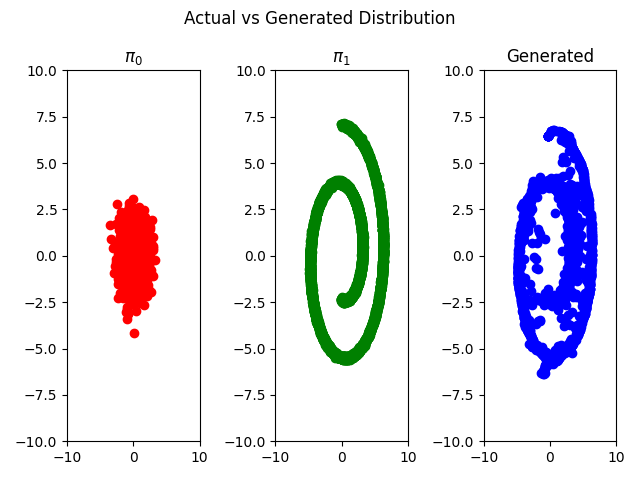
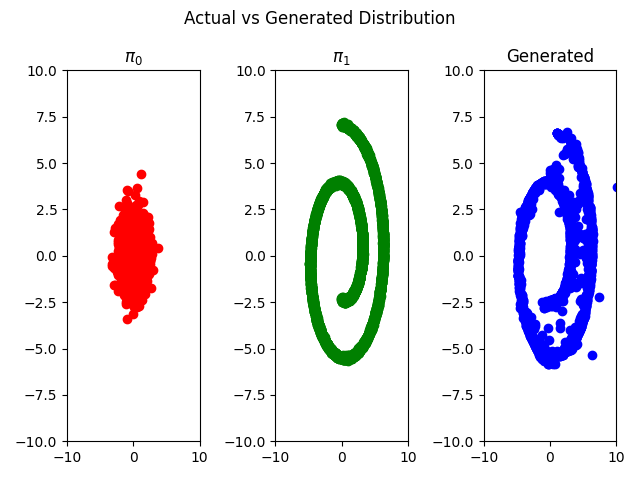
tt recflow run without random seed , still have a diameter problem in sinkhorn values

Changed region(s): [[0.7812, 0.25, 0.9688, 0.8125], [0.1562, 0.375, 0.25, 0.7188], [0.2188, 0.3438, 0.25, 0.375]]

diff --git a/tutorial/tutorial_rectified_flow_with_neural_network.py b/tutorial/tutorial_rectified_flow_with_neural_network.py
@@ -38,10 +38,11 @@ from geomloss import SamplesLoss
 from utils.samples_generation import get_target_samples
 
 # Set seed
-SEED = 42
-random.seed(SEED)
-np.random.seed(SEED)
-torch.manual_seed(SEED)
+#
+# SEED = 42
+# random.seed(SEED)
+# np.random.seed(SEED)
+# torch.manual_seed(SEED)
 
 
 @torch.no_grad()
